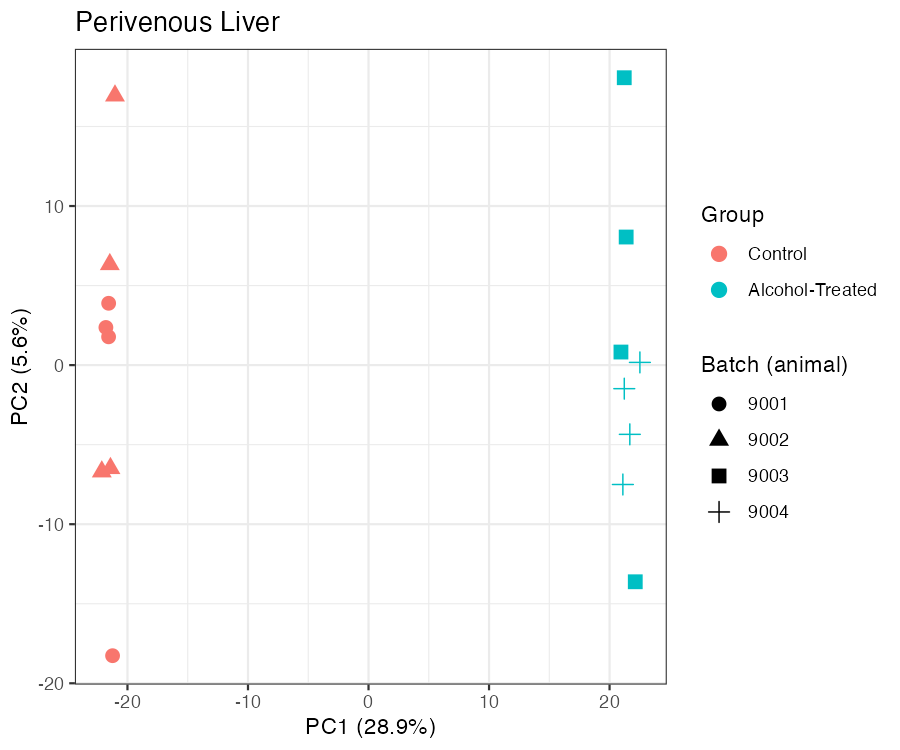
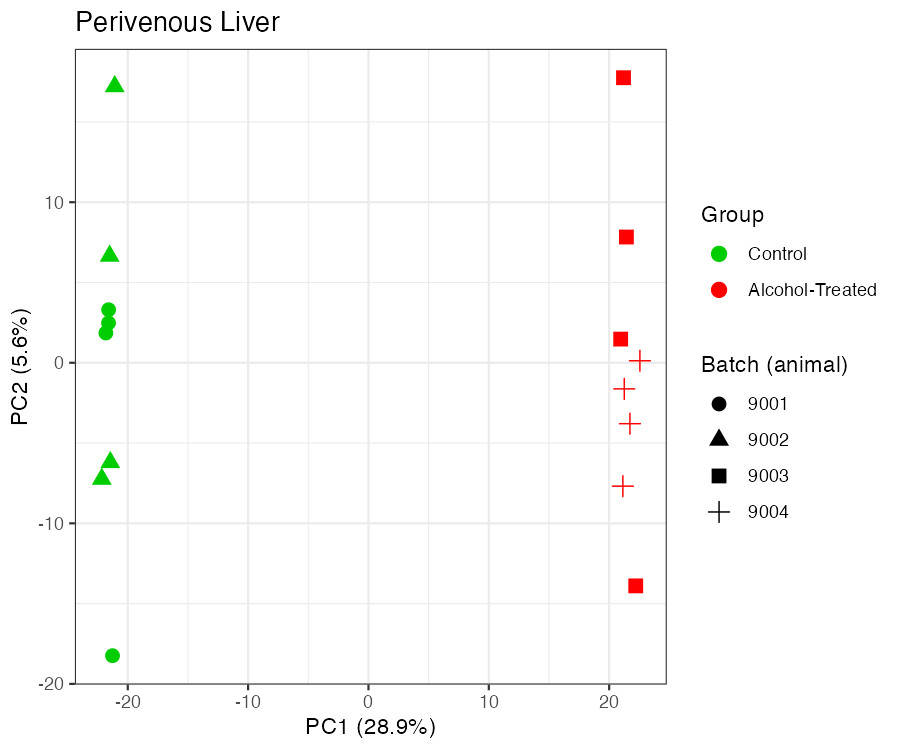
Revert normalize/DGE split; PCA now uses raw counts, matching original scripts
Undid the previous commit's split of normalization into its own script.
04_run_dge_all_rois(.R/_no_loop.R) is back to one self-contained script per
the original per-ROI scripts: build dds -> estimateSizeFactors -> normalize
-> low-count filter -> DESeq() -> results, all together.

PCA (03_pca_plots.R) no longer depends on DESeq2 at all -- it runs directly
on raw counts via prcomp(t(log2(counts+1))), the same approach the original
per-ROI scripts used, colored Control (green) vs Alcohol-Treated (red) to
match. This still runs before any DESeq2 object exists (03 before 04 in
the pipeline), it just doesn't need a normalize-first split to get there.
The no-loop DGE script keeps the same raw-count PCA inline, before its own
dds construction, mirroring the original scripts' structure most closely.

Renumbered: 03_pca_plots, 04_run_dge_all_rois(_no_loop), 05_compare_deg_lists,
06_render_heatmap. Verified identical DEG counts.

diff --git a/README.md b/README.md
@@ -78,14 +78,13 @@ R/
   00_setup.R                   loads config + shared functions
   01_fetch_from_geo.R          no-op unless data_source: geo
   02_prepare_metadata.R        parses metadata -> data/processed/sample_metadata.csv
-  03_normalize_counts.R        builds each ROI's dds + size factors (no model fitting yet)
-  04_pca_plots.R               PCA/QC per ROI, run before DESeq2 model fitting
-  05_run_dge_all_rois.R        DESeq2 model fit + results per ROI, looped over config.yml's 6 ROIs
-  05_run_dge_all_rois_no_loop.R   same steps, no loop -- change roi_name and re-run instead
-  06_compare_deg_lists.R       shared/unique significant genes across ROIs
-  07_render_heatmap.R          per-ROI heatmap grid (ggplot2 facet_wrap)
+  03_pca_plots.R               PCA/QC per ROI on raw counts (log2(counts+1)), before any DESeq2 object exists
+  04_run_dge_all_rois.R        DESeq2 (build dds -> normalize -> filter -> fit) per ROI, looped over config.yml's 6 ROIs
+  04_run_dge_all_rois_no_loop.R   same steps, no loop -- change roi_name and re-run instead
+  05_compare_deg_lists.R       shared/unique significant genes across ROIs
+  06_render_heatmap.R          per-ROI heatmap grid (ggplot2 facet_wrap)
   functions.R                  load_raw_counts(), subset_counts_by_tissue()
-run_pipeline.R                 orchestrator; sources 00-07 in order
+run_pipeline.R                 orchestrator; sources 00-06 in order
 data/
   example/                     synthetic demo dataset (committed)
   raw/                         real data goes here (gitignored, not committed)
